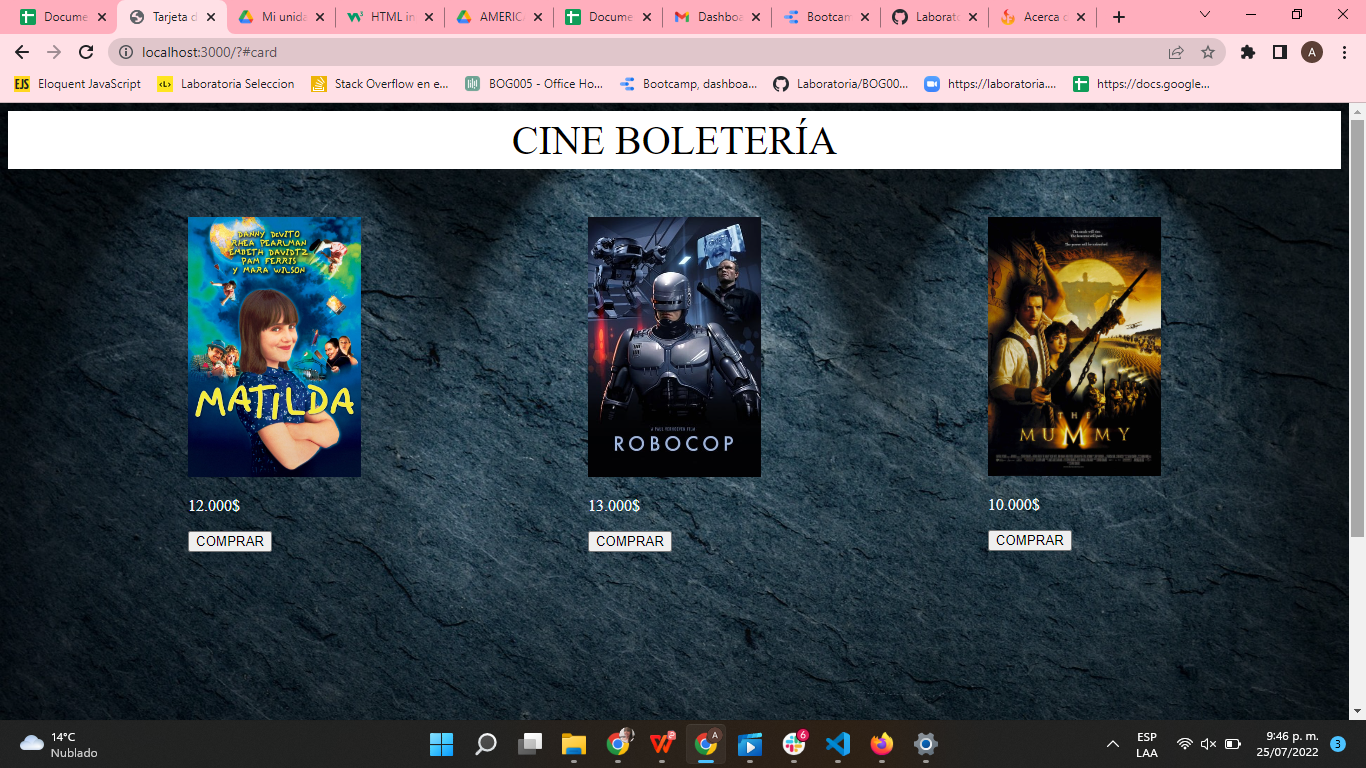
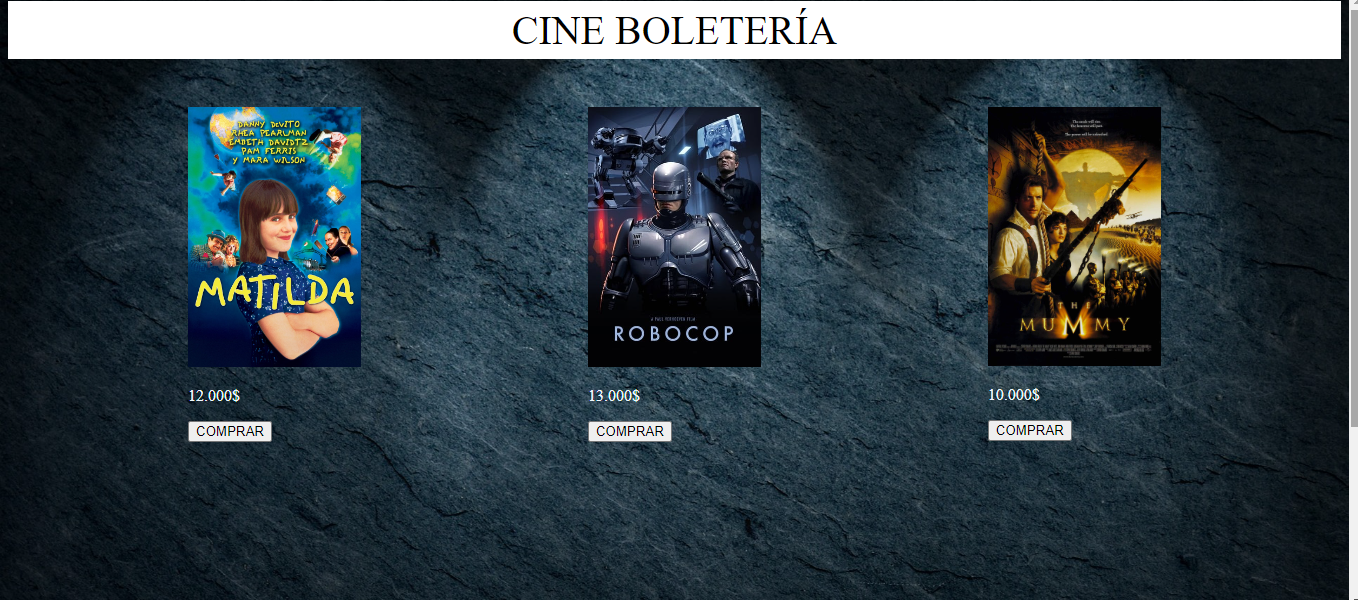
reordene el codigo html, borrando lo que no utilizaría, igual con css y finalice el readme

diff --git a/src/index.js b/src/index.js
@@ -5,7 +5,7 @@ const botonn = document.getElementById("button");
 let input = document.getElementById("card");
 
 function saveN() {
- // document.getElementById("result").style.visibility = "";
+
   let cardN = document.getElementById("card").value;
   //capturar en la variable cardN lo que el usuario digite en el campo input
   if (validator.isValid(cardN)) {
@@ -14,7 +14,7 @@ function saveN() {
 
   } else {
     document.getElementById("form").style.backgroundColor= "red";
-    document.getElementById("valid").innerHTML= "T A R J E T A    I N V Á L I D A";
+    document.getElementById("valid").innerHTML= "T A R J E T A  -  I N V Á L I D A";
   }
   let card = document.getElementById("card").value;
   //validator.maskify(card)

diff --git a/src/index.html b/src/index.html
@@ -12,7 +12,7 @@
     <div> CINE BOLETERÍA </div>
   </header>
 
-  <div class="cart">
+  <main class="cart">
     <div class="card">
       <img class="movie1" src="Img/matilda.jpg" alt="matilda">
       <p>12.000$</p>
@@ -32,19 +32,14 @@
       <p>10.000$</p>
       <a href="#card"><button id="pay3" class="pay3">COMPRAR</button></a>
     </div>
-  </div>
-  <article id="result">
-
-  </article>
+  </main>
+  
   <div class="tarjeta">
-
     <form id="form">
       <p id="valid">Ingresa el número de tu T.C</p>
       <input id="card" type="text"> <br>
       <button id="button" type="button" class="acept">ACEPTAR</button>
     </form>
-
-
   </div>
 
   <br>

diff --git a/src/validator.js b/src/validator.js
@@ -4,9 +4,9 @@ const validator = {
     let numberPar = 0;
     let b = false;
 
-    for (let n = creditCardNumber.length -1; n >= 0; n--) {
-      let cDigit = creditCardNumber.charAt(n);
-      numberPar = parseInt(cDigit);
+    for (let i = creditCardNumber.length -1; i >= 0; i--) {
+      let cDigit = creditCardNumber.charAt(i);//devolvera el ultimo caracter de string y se guardara el ultimo numero en cDigit
+      numberPar = parseInt(cDigit); //convertira el string en  un entero
 
       if (b) {
         if ((numberPar *= 2) > 9) numberPar -= 9;

diff --git a/src/style.css b/src/style.css
@@ -118,6 +118,6 @@ html {
     color: black;
     margin-top: 3rem;
     text-align: center;
-    height: 5px;
+    height: 20px;
     width: 100%;
   }

diff --git a/README.md b/README.md
@@ -1,8 +1,5 @@
 # Tarjeta de crédito válida Para Cine Boletería
 
-
-
-
 ## Índice
 
 * [1. Resumen](#1-resumen)
@@ -17,19 +14,9 @@
 Este proyecto se basa en un plataforma para validar TC al momento de pagar
 el boleto de una pelicula en Cine Boletería.
 
-El [Prototipo hecho a mano](https://es.wikipedia.org/wiki/Algoritmo_de_Luhn),
-Lo cree
-
-Este algoritmo es simple. Obtenemos la reversa del número a verificar (que
-solamente contiene dígitos [0-9]); a todos los números que ocupan una posición
-par se les debe multiplicar por dos, si este número es mayor o igual a 10,
-debemos sumar los dígitos del resultado; el número a verificar será válido si
-la suma de sus dígitos finales es un múltiplo de 10.
-
-
 
 ## 2. Imagen del proyecto
-[Imagen FInal Proyecto](/src/Img/FINAL.jpg)
+[Imagen FInal Proyecto](src/Img/Captura%20de%20pantalla%20(501).png)
 
 
 
